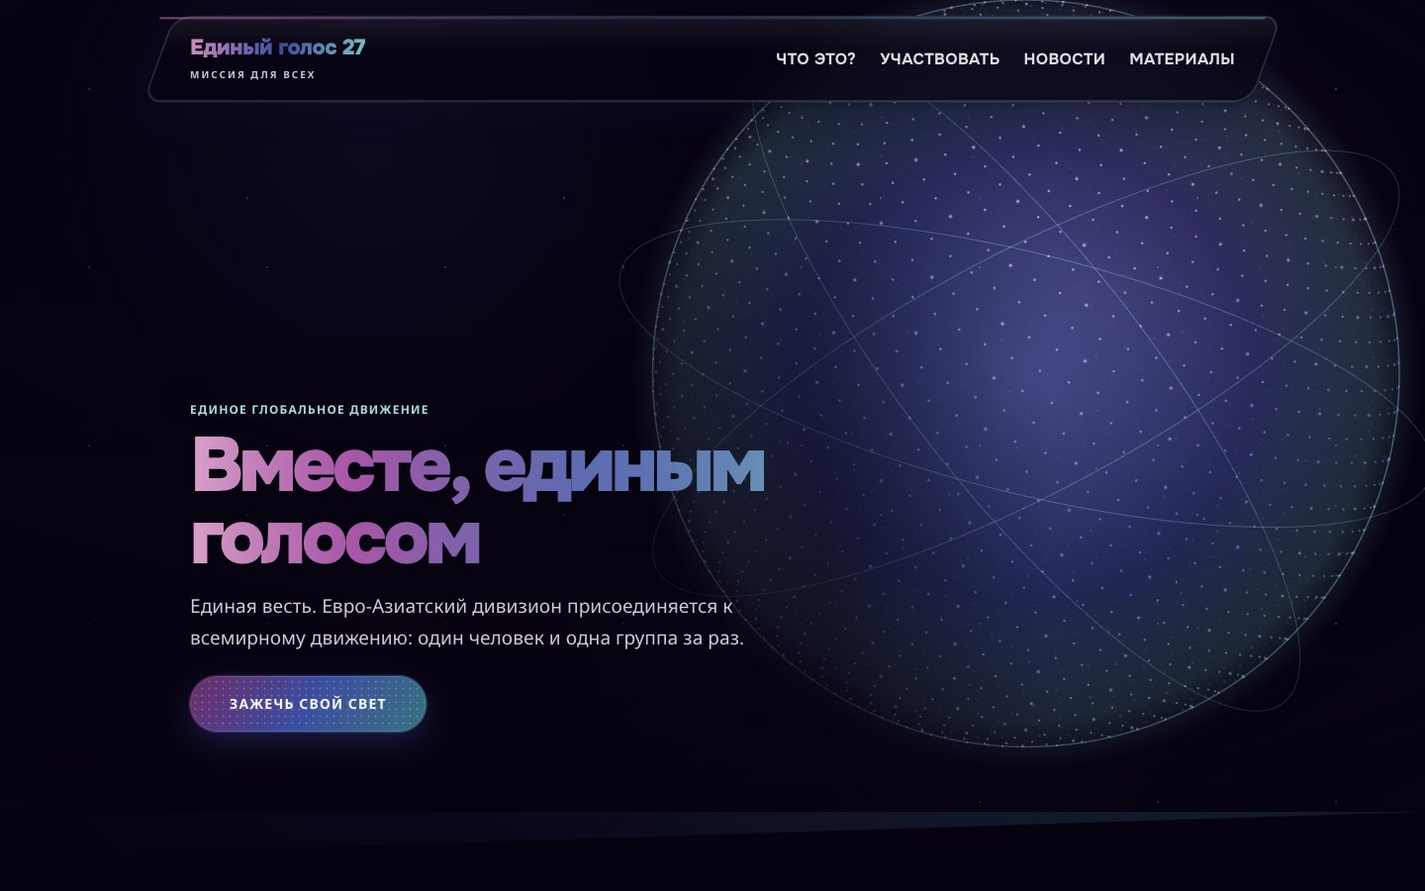
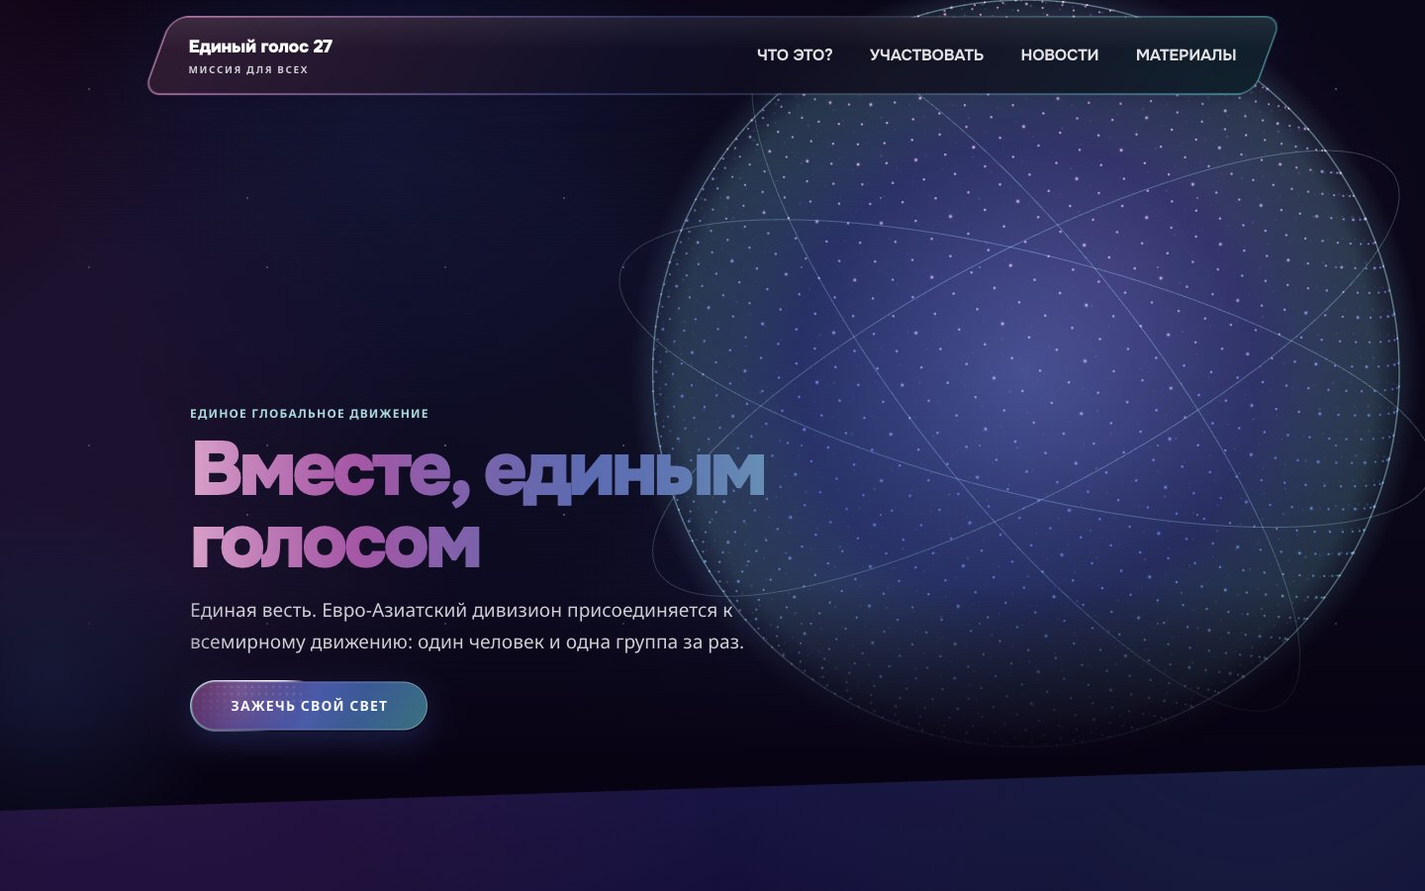
docs(06): приёмка фазы 6 в браузере, скриншоты, итог плана 06-04
SMOKE.md «Фаза 6»: таблица оригинал / прод по шапке, меню, кнопке, фонам,
карте, deep link, reduced motion; scrollWidth = innerWidth на 320…1920 после
фикса; 0 ошибок консоли, 0 ответов ≥ 400; sha256 прода равен dist.

diff --git a/docs/qa/SMOKE.md b/docs/qa/SMOKE.md
@@ -121,3 +121,32 @@ curl -sI https://thevladoss.github.io/esd-onevoice27/ | head -1   # ожидае
 | Тесты | 42 файла, 335 | 43 файла, 346, предупреждений `act` нет; `check:dist` теперь шаг деплоя в CI |
 
 Замечание к методике: Playwright прокручивает страницу к кнопке пагинации перед кликом, если она ниже экрана; тогда группа карточек уходит выше вьюпорта и появляется только при прокрутке назад. Сценарий пользователя (пагинация уже видна) этого эффекта не имеет.
+
+## Фаза 6: точность оригинала (шапка, кнопка, фоны)
+
+Правки пользователя после приёмки фазы 5: «меню точно как в оригинале вплоть до анимаций и цветов», «фоны на всю ширину как в оригинале», «точки на кнопке проявляются и гаснут вслед за лучом». Правила сняты с живого onevoice27.org через Playwright (таблицы стилей и вычисленные значения), палитра `--ov-*-rgb` в точных RGB. Инструмент приёмки: Playwright MCP, Chrome, прод https://thevladoss.github.io/esd-onevoice27/, сборка после слияния планов 06-01…06-03 и фиксов 06-04.
+
+| Область | Оригинал | Наш прод | Статус |
+|---|---|---|---|
+| Пилюля шапки 1440 | 72rem × 80px, radius 18px, `skewX(-20deg)` на слоях рамки и стекла, рамка `linear-gradient(112deg, …)`, стекло `rgb(7 2 16 / .77)` + `blur(18px) saturate(135%)`, drop-shadow | 1152 × 80px на x=144, radius 18px, `matrix(1, 0, -0.36397, 1, 0, 0)` у `::before` и `::after` (tan 20°), blur 18px saturate 1.35, поверхность rgba(7, 2, 16, .77), drop-shadow | да |
+| Пилюля 1920 | тот же 72rem по центру | 1152px на x=384 | да |
+| Пункты меню | 16px / 650 / uppercase / -0.015em, текст в span с градиентом 230% и `background-position 100% 50%` → `0 50%` на hover за 360ms | 16px 650 uppercase, `background-clip: text`, позиция `100% 50%` → `0px 50%` на hover | да |
+| Скрытие при прокрутке | `.is-header-hidden`: `translateY(calc(-100% - 2rem))`, opacity 0, 420ms | после прокрутки 700 → 900: класс `is-header-hidden`, `matrix(…, 0, -112)`, opacity 0; после прокрутки вверх класс снят, opacity 1 | да |
+| Логотип | белый rgb(255 255 255) | `Единый голос 27 / миссия для всех` белый, без градиента | да |
+| Мобильная шапка 390 | 72px, radius 0, световая линия 1.5px по низу | min-height 72px, radius 0, `::before` 1.5px у нижней кромки | да |
+| Бургер | SVG 64×28, три rect, в открытом виде крест: `translateY(-8px) scaleX(.72)` + opacity 0 / `scaleX(1.2308) rotate(45deg)` / `translateY(-12px) rotate(-45deg)` | 3 rect; matrix(0.72,0,0,1,0,-8) / matrix(0.87,0.71,-0.87,0.71,0,0) / matrix(0.71,-0.71,0.71,0.71,0,-12) | да |
+| Оверлей меню | fixed inset 0, радиальные пятна signal/horizon + linear 145deg, blur 24px saturate 125%, пункты `clamp(1.65rem, 8vw, 2.6rem)` / 750, разделители, линия 1.5rem справа; крест поверх оверлея | visibility visible, opacity 1, `blur(24px) saturate(1.25)`, пункты 31.2px / 750, линия 24px; после переноса оверлея внутрь пилюли `elementFromPoint` по центру бургера отдаёт бургер, клик по кресту закрывает и возвращает фокус | да |
+| Кнопка hero | рамка 1.5px transparent, поверхность `linear-gradient(125deg, rgb(108 44 104), rgb(59 77 161), rgb(57 114 126))` padding-box + `conic-gradient(from var(--ov-hero-beam) …)` border-box, `::after` точки 7px с `mask-image: conic-gradient(…)`, `hero-beam 3s linear infinite` | border 1.5px, те же градиенты, `::after` `background-size 7px 7px`, opacity .42, mask conic, animation hero-beam 3s; угол `--ov-hero-beam` 221° → 257° за 300 мс | да |
+| Submit формы | те же правила, width 100%, min-height 54px | `.btn[data-beam][data-size="form"]` | да |
+| Фоны 1920 | все секции на всю ширину: карта+форма на rgb(18 12 52) со скосом, about rgb(22 29 61) с радиальными, involve скошенная полоса с контуром, news rgb(18 12 52), resources rgb(18 12 52) с атмосферой и частицами, footer градиент со скосом | `main > section` и footer шириной 1920; подложки: hero rgb(7 2 16) + `::after`-оверлей, map слой rgb(18 12 52) + `::before` со скосом (margin-top −53px), light-form rgb(18 12 52) + `::before`, about rgb(22 29 61) + `::before`, involve `::before`/`::after` со скосами (margin-top −53px), news rgb(18 12 52) + `::before`, resources rgb(18 12 52) + слой атмосферы и частиц, quote градиент, footer градиент + `::after`, margin-top −47px | да |
+| Карта | Mapbox во всю ширину окна | SVG 1920px, left 0, контейнер 1920px; проекция не менялась: лишняя ширина уходит соседним странам, как у оригинала | да |
+| Горизонтальный скролл | у оригинала на 1920 scrollWidth 2338 (орб со сдвигом 38%) | до фикса тот же дефект (2338 / 1834 / 1304 / 978 на 1920 / 1440 / 1024 / 768); после `overflow-x: clip` на секциях карты и формы scrollWidth равен innerWidth на 320 / 390 / 768 / 1024 / 1440 / 1920 (локальный preview, затем прод) | да, после фикса |
+| Deep link материалов | — (интеграционная находка аудита v1.0) | клик по «Скачать материалы» в триптихе: `location.hash = #resources-materials`, `aria-expanded` панелей `[false, true, false]`, 5 ссылок, секция под шапкой (top 112px) | да |
+| Reduced motion | все переходы шапки `.01ms`, луч и маска статичны | 51 `[data-anim]` без анимации, `animationName: none` у кнопки и её `::after`, transition-duration шапки 1e-05s, 8 секций видны | да |
+| Секции, консоль, сеть | — | 8 секций, 0 ошибок консоли, 0 ответов ≥ 400 из 60 (thevladoss.github.io, fonts.googleapis.com, fonts.gstatic.com, img.youtube.com), reveal 31/31, счётчики 694 / 248 | да |
+
+Скриншоты фазы 6: `final-desktop.jpeg` (1440), `final-header-1920.jpeg` (пилюля на 1920), `final-cta.jpeg` (кнопка), `final-full.jpeg` (1440, вся страница), `final-full-1920.jpeg` (1920, вся страница), `final-mobile.jpeg` и `final-mobile-menu.jpeg` (390), `final-reduced-motion.jpeg`.
+
+Сознательные отступления от оригинала: бургер остаётся `<button>` (у оригинала `<a role="button">`); кольцо фокуса на пунктах меню сохранено (оригинал ставит `outline: none`); шрифт Onest вместо Figtree; активный пункт меню подсвечен как hover; горизонтальный overflow оригинала не скопирован.
+
+**Вердикт фазы 6:** принято.

diff --git a/.planning/phases/06-original-fidelity/06-04-SUMMARY.md b/.planning/phases/06-original-fidelity/06-04-SUMMARY.md
@@ -1,0 +1,96 @@
+---
+phase: 06-original-fidelity
+plan: 04
+subsystem: qa
+tags: [playwright, smoke, deploy, deep-link, overflow, github-pages]
+
+requires:
+  - phase: 06-original-fidelity
+    provides: планы 06-01 (шапка и меню), 06-02 (кнопка), 06-03 (фоны) слиты в main
+  - phase: 04-news-resources-quote
+    provides: приёмник deep link #resources-materials в Resources.tsx
+provides:
+  - Карточка триптиха «Скачать материалы» ведёт на #resources-materials и раскрывает панель материалов
+  - Оверлей мобильного меню внутри пилюли: крест закрытия поверх оверлея, как в оригинале
+  - Секции карты и формы клипуют горизонталь: scrollWidth равен ширине окна на 320…1920
+  - Прод равен dist по sha256, браузерная приёмка фазы 6 в docs/qa/SMOKE.md, восемь скриншотов
+affects: [верификатор фазы 06, аудит и закрытие milestone v1.0]
+
+tech-stack:
+  added: []
+  patterns:
+    - "Полноширинные декоративные слои со сдвигом за край окна клипуются на секции-носителе через overflow-x: clip, вертикаль остаётся открытой"
+    - "Элемент, который должен оставаться кликабельным поверх фиксированного оверлея, живёт в том же изолированном стековом контексте с большим z-index"
+
+key-files:
+  created:
+    - docs/qa/final-header-1920.jpeg
+    - docs/qa/final-cta.jpeg
+    - docs/qa/final-full-1920.jpeg
+    - docs/qa/final-mobile-menu.jpeg
+  modified:
+    - src/data/copy.involve.ts
+    - src/components/involve/Involve.test.tsx
+    - src/components/resources/Resources.tsx
+    - src/components/layout/Header.tsx
+    - src/components/map/map.css
+    - src/components/form/light-form.css
+    - docs/qa/SMOKE.md
+    - docs/qa/final-desktop.jpeg
+    - docs/qa/final-mobile.jpeg
+    - docs/qa/final-full.jpeg
+    - docs/qa/final-reduced-motion.jpeg
+
+key-decisions:
+  - "Горизонтальный overflow оригинала (scrollWidth 2338 на 1920 из-за орба со сдвигом 38%) не скопирован: секции карты и формы получили overflow-x: clip"
+  - "Оверлей меню перенесён внутрь .site-header__content по образцу оригинала вместо поднятия z-index всей шапки: стекло и логотип уходят под оверлей, крест остаётся сверху"
+
+patterns-established:
+  - "Браузерная приёмка фазы фиксируется таблицей «оригинал / наш прод / статус» в SMOKE.md"
+
+requirements-completed: [FID-01, FID-02, FID-03]
+
+duration: 40min
+completed: 2026-09-05
+---
+
+# Phase 6 Plan 04: Deep link, smoke и деплой Summary
+
+**Прод после слияния трёх планов фазы 6 совпал с оригиналом по шапке, меню, кнопке и фонам во всех замерах на 1440, 1920 и 390; по пути закрыты три дефекта: deep link материалов, крест бургера под оверлеем и горизонтальный overflow от орбов.**
+
+## Performance
+
+- **Duration:** 40 min
+- **Started:** 2026-09-05T21:05:00Z
+- **Completed:** 2026-09-05T21:45:00Z
+- **Tasks:** 2 из 2 (задача 2 выполнена оркестратором через Playwright MCP)
+- **Files modified:** 7, создано 4 скриншота
+
+## Accomplishments
+
+- Слиты ветки agent-06-01, agent-06-02, agent-06-03 без конфликтов; гейт после слияния: 44 файла / 368 тестов, lint чист, build без предупреждений, `check:dist` 11 из 11
+- `copy.involve.ts`: карточка «Материалы для церкви» ведёт на `#resources-materials`; на проде клик раскрывает панель материалов (5 ссылок) и прокручивает к секции под шапку
+- `Header.tsx`: `MobileMenu` перенесён внутрь `.site-header__content`; `elementFromPoint` по центру бургера при открытом меню отдаёт бургер, клик по кресту закрывает меню и возвращает фокус
+- `map.css`, `light-form.css`: `overflow-x: clip` на секциях; scrollWidth равен innerWidth на 320 / 390 / 768 / 1024 / 1440 / 1920 (до фикса 978 / 1304 / 1834 / 2338 на 768 / 1024 / 1440 / 1920, ровно как у оригинала)
+- Прод сверен побайтно с `dist` (index.html и три ассета), прогоны Actions зелёные
+- `docs/qa/SMOKE.md` дополнен разделом «Фаза 6» с таблицей оригинал / прод; восемь скриншотов пересняты
+
+## Task Commits
+
+1. **Task 1: deep link** — `e75e0dc` fix(06-04)
+2. **Task 2: smoke и фиксы по итогам** — `fix(06-01)` перенос оверлея (коммит перед e75e0dc), `fix(06-03)` overflow-x: clip, `docs(06)` smoke и скриншоты
+
+## Deviations from Plan
+
+**1. Два дополнительных фикса в задаче 2.** Smoke нашёл крест бургера под оверлеем (оверлей лежал рядом с изолированным контентом пилюли) и горизонтальный overflow от орбов со сдвигом 38%. Оба исправлены сразу, поскольку правки по одной строке-двум и полностью в периметре FID-01 / FID-02; задокументированы в SMOKE.md.
+
+**2. Скриншотов восемь вместо шести:** добавлены полная страница на 1920 и открытое мобильное меню, потому что именно эти виды сравнивал пользователь.
+
+## Issues Encountered
+
+- Оригинал сам имеет горизонтальный overflow на 1920 (scrollWidth 2338); копировать дефект не стали.
+- Playwright прокручивает к кнопке пагинации перед кликом, если она ниже экрана: артефакт методики, описан в разделе фазы 5.
+
+## Next Phase Readiness
+
+- Фаза 6 готова к верификации; после неё повторный аудит milestone и закрытие v1.0.

diff --git a/.planning/ROADMAP.md b/.planning/ROADMAP.md
@@ -205,10 +205,10 @@ Plans:
 **Plans**: 4 plans
 
 Plans:
-- [ ] 06-01-PLAN.md — Шапка и меню по CSS оригинала: пилюля со скосом, градиентная рамка, стекло, меню с градиентной заливкой, скрытие при прокрутке, бургер-крест и оверлей (FID-01)
-- [ ] 06-02-PLAN.md — Кнопка с лучом и точками: правила оригинала для .btn[data-beam], ::before/::after, hover, reduced motion (FID-03)
-- [ ] 06-03-PLAN.md — Фоны секций на всю ширину и полноширинная карта (FID-02)
-- [ ] 06-04-PLAN.md — Smoke, скриншоты, деплой и сверка с оригиналом (FID-01, FID-02, FID-03)
+- [x] 06-01-PLAN.md — Шапка и меню по CSS оригинала: пилюля со скосом, градиентная рамка, стекло, меню с градиентной заливкой, скрытие при прокрутке, бургер-крест и оверлей (FID-01)
+- [x] 06-02-PLAN.md — Кнопка с лучом и точками: правила оригинала для .btn[data-beam], ::before/::after, hover, reduced motion (FID-03)
+- [x] 06-03-PLAN.md — Фоны секций на всю ширину и полноширинная карта (FID-02)
+- [x] 06-04-PLAN.md — Smoke, скриншоты, деплой и сверка с оригиналом (FID-01, FID-02, FID-03)
 
 **UI hint**: yes
 
@@ -224,4 +224,4 @@ Phase 3 и Phase 4 обе зависят только от Phase 2 и незав
 | 3. Форма, О проекте, Участие | 4/4 | Complete   | 2026-09-05 |
 | 4. Новости, Ресурсы, Цитата | 4/4 | Complete   | 2026-09-05 |
 | 5. Полировка и финальный прогон | 8/8 | Complete   | 2026-09-05 |
-| 6. Точность оригинала | 0/4 | Planned | - |
+| 6. Точность оригинала | 4/4 | Complete   | 2026-09-05 |

diff --git a/.planning/STATE.md b/.planning/STATE.md
@@ -3,15 +3,15 @@ gsd_state_version: 1.0
 milestone: v1.0
 milestone_name: milestone
 status: executing
-stopped_at: Executing Phase 06 (планы 06-01…06-03 параллельно в worktree)
+stopped_at: Completed 06-04-PLAN.md, фаза 06 ждёт верификацию
 last_updated: "2026-09-05T20:45:00.000Z"
 last_activity: 2026-09-05 -- Фаза 6 «Точность оригинала» по правкам пользователя: планы 06-01 шапка, 06-02 кнопка, 06-03 фоны исполняются
 progress:
   total_phases: 6
   completed_phases: 5
   total_plans: 30
-  completed_plans: 26
-  percent: 87
+  completed_plans: 30
+  percent: 100
 ---
 
 # Project State
@@ -26,17 +26,17 @@ See: .planning/PROJECT.md (updated 2026-09-05)
 ## Current Position
 
 Phase: 06 (original-fidelity) — EXECUTING
-Plan: 1–3 of 4 (параллельно)
-Status: Фаза 05 закрыта (verification passed, review-fix, UAT); фаза 06 по правкам пользователя: шапка, кнопка, фоны, затем deep link, smoke и деплой
-Last activity: 2026-09-05 -- планы 06-01…06-03 у исполнителей
+Plan: 4 of 4
+Status: Все планы фазы 06 слиты и приняты в браузере (SMOKE.md «Фаза 6»), ожидается верификация
+Last activity: 2026-09-05 -- 06-04: deep link, крест бургера, overflow-x clip, smoke на 1440/1920/390
 
-Progress: [████████▋ ] 87%
+Progress: [██████████] 100%
 
 ## Performance Metrics
 
 **Velocity:**
 
-- Total plans completed: 26
+- Total plans completed: 30
 - Average duration: - min
 - Total execution time: 0 hours
 
